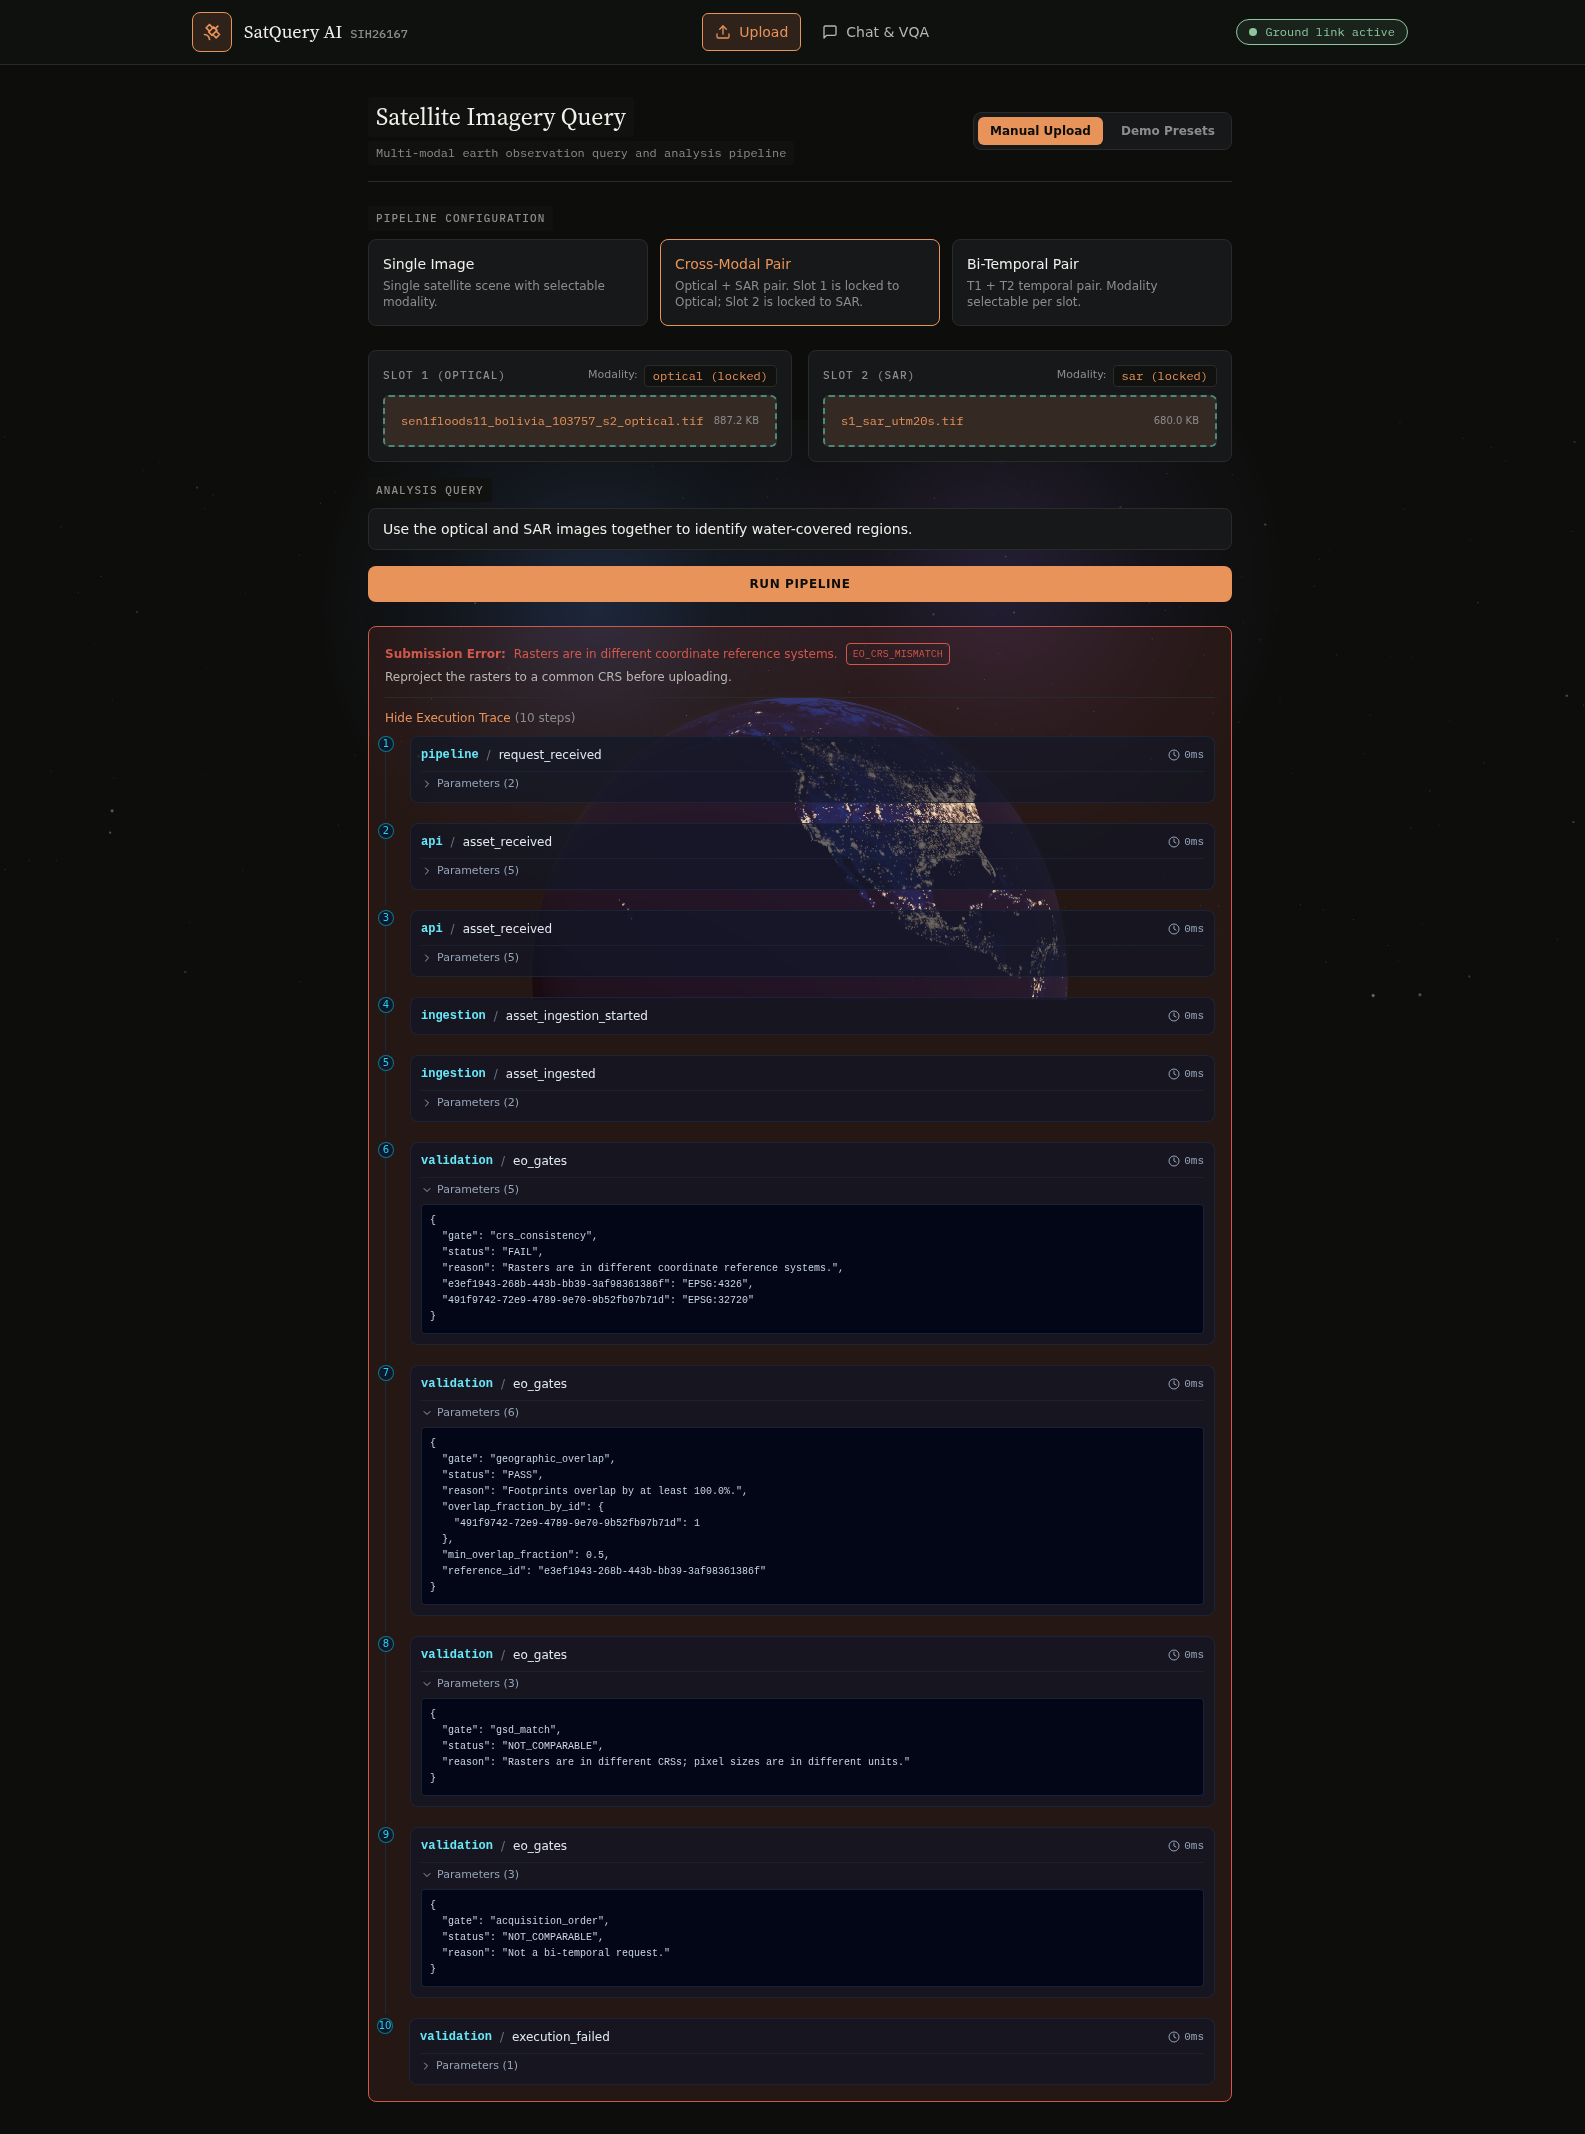
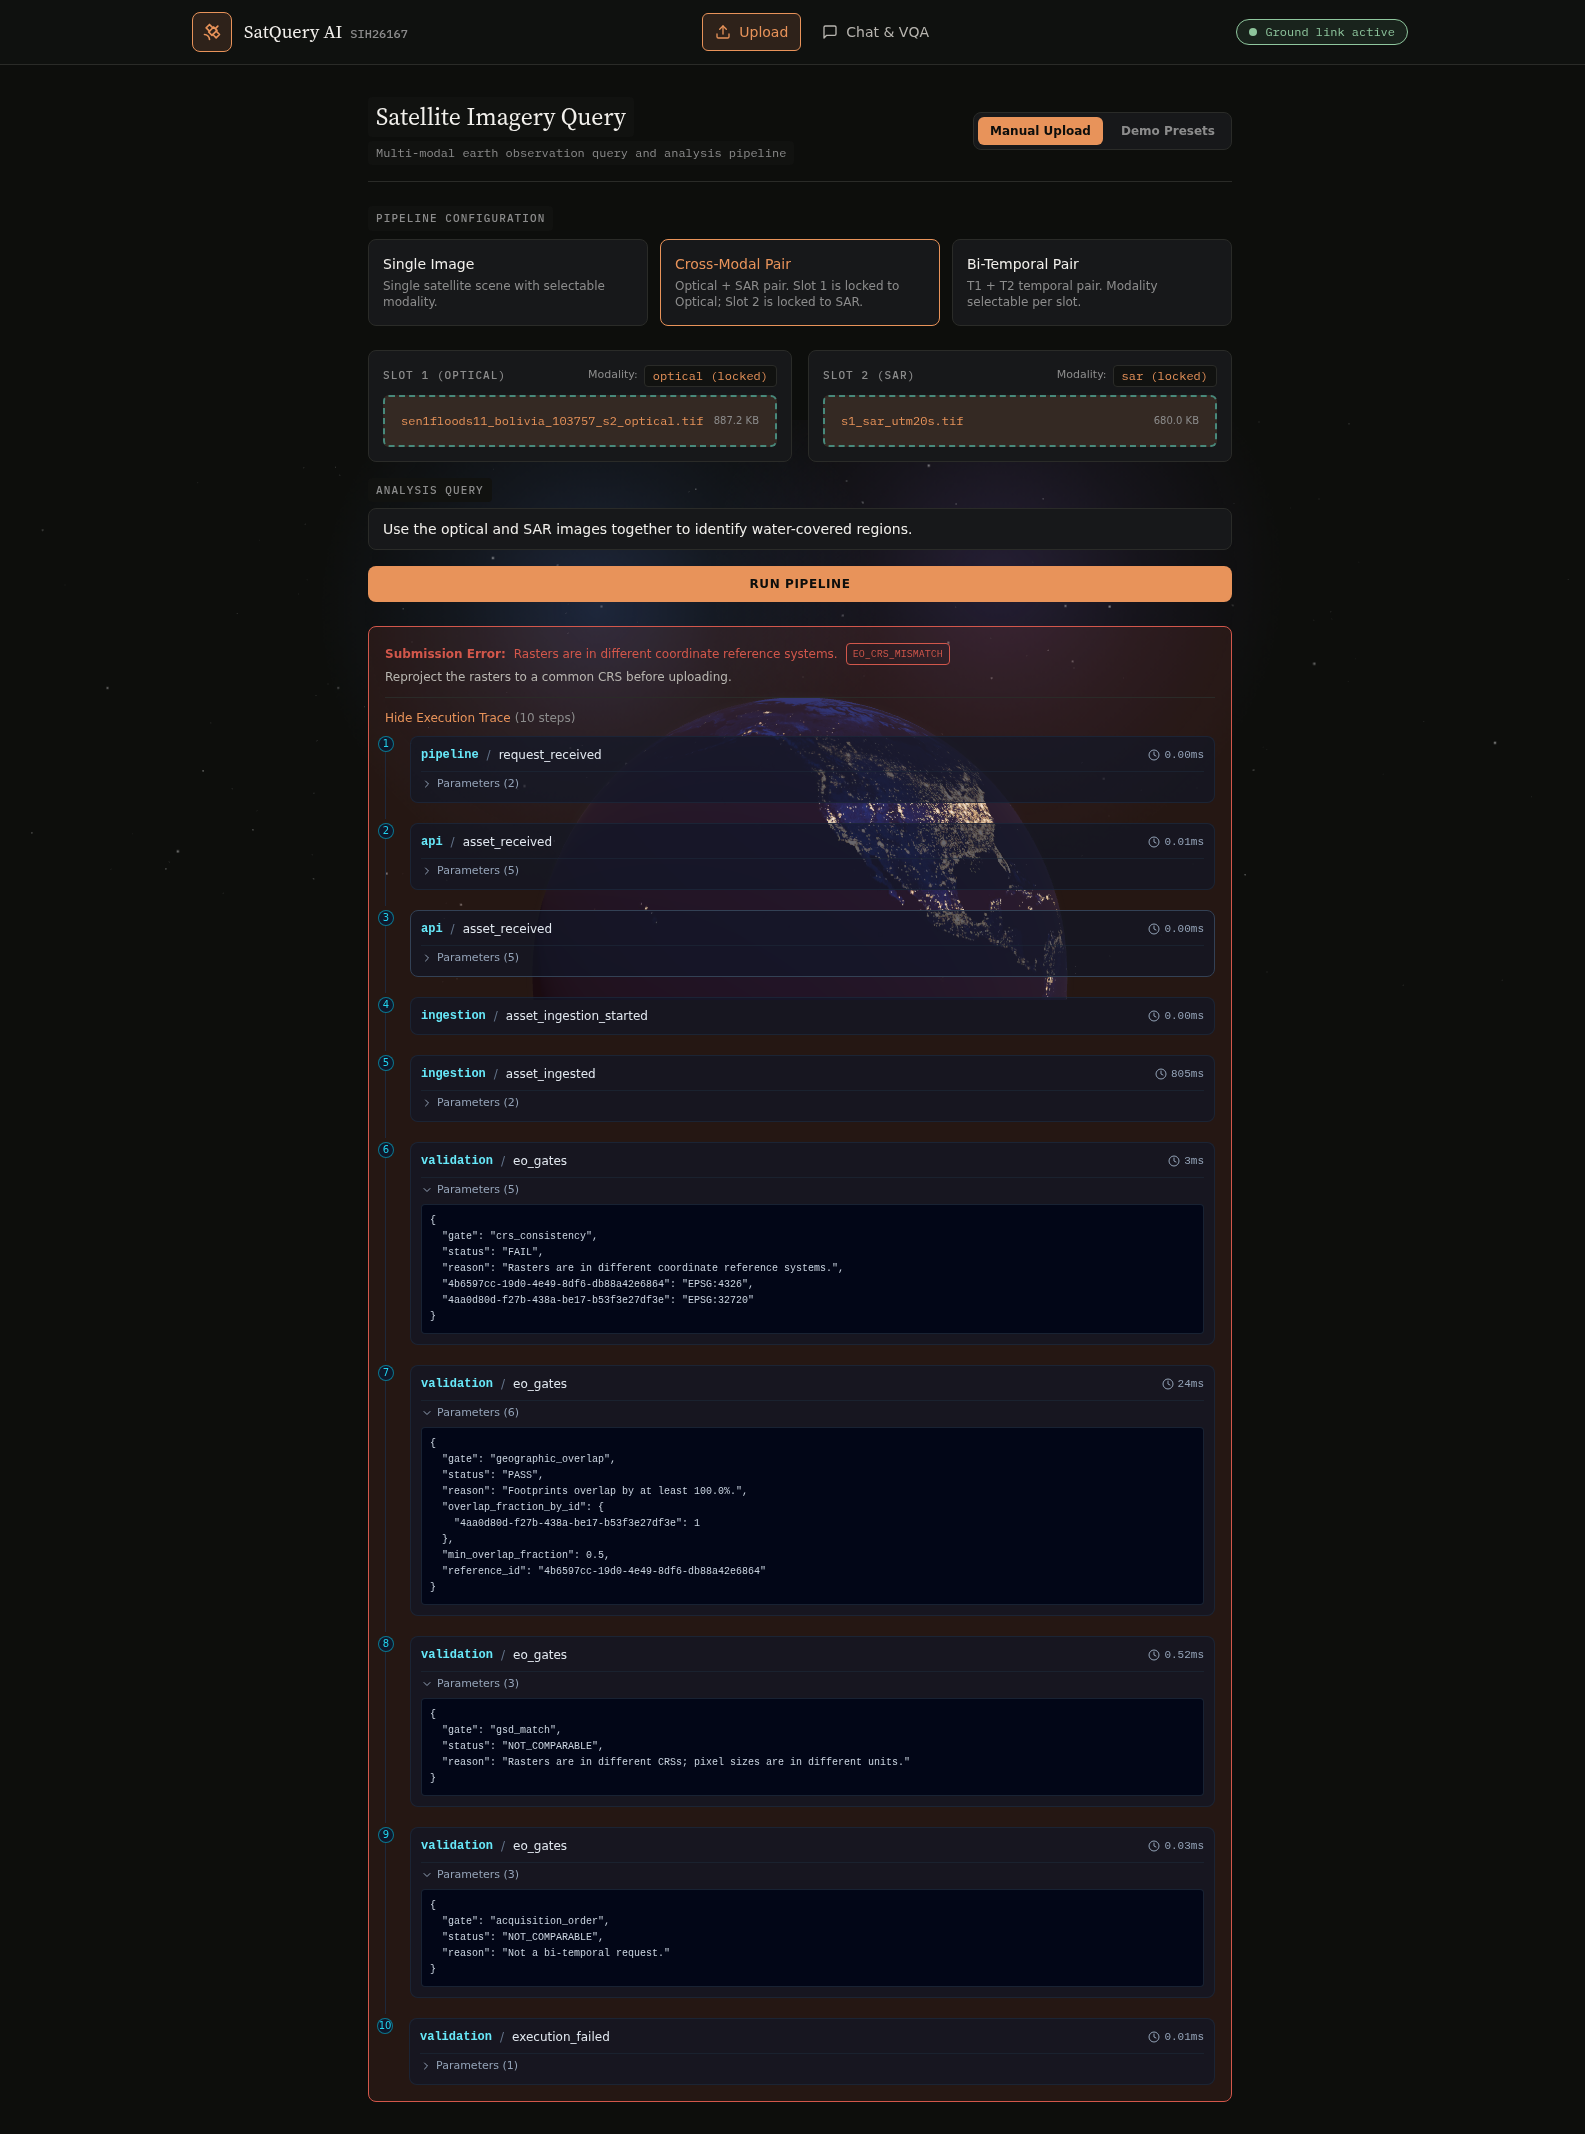
docs(26167): recapture veto + hero with real step timing and labels
Re-ran A (veto) and D (hero) on 4eeb122. The veto trace now shows real
per-stage durations (ingestion 805 ms, EO gates 3 / 24 / 0.52 / 0.03 ms) and
the hero's fusion cards show the new region labels. run_log.md records the
per-step durations from the API, marks B/C as pre-fix runs, and closes the
timing and label observations.

diff --git a/docs/evaluation/run_log.md b/docs/evaluation/run_log.md
@@ -7,12 +7,14 @@ logged in with a throwaway local account.
 
 - **Branch:** `feat/26167-demo-captures`, which is `feat/26167-console-v2-redesign` with
   `feat/26167-veto-trace-ui` merged in.
-- **Code under test:** `67c4a4a`, the port of the veto trace and raw-evidence truncation.
-  Screenshots and this log are committed on top of it.
-- **Date / time (UTC):** 2026-09-23, runs from 16:49:27 to 16:50:07 (times taken from the trace timestamps)
+- **Runs A and D:** code under test is `4eeb122` (real per-stage trace timing and specific mask
+  evidence labels). A ran at 2026-09-23 17:17:42 UTC and D at 17:14:27 UTC.
+- **Runs B and C:** not re-run for this commit. Their figures are from `67c4a4a` at
+  16:49–16:50 UTC, before step timing was fixed. Their totals are valid, but their per-step
+  durations were all recorded as 0 ms.
 - **CPU:** 13th Gen Intel(R) Core(TM) i5-13420H
 - **Compute:** CPU only. InternVL3-2B was never loaded; neither the fusion nor the
-  change-detection route calls it. BIT ran on CPU: `define_G` is called with `gpu_ids=[]`, and
+  change-detection route calls it. BIT runs on CPU: `define_G` is called with `gpu_ids=[]`, and
   the checkpoint is loaded with `map_location="cpu"`.
 
 ## Results
@@ -24,71 +26,83 @@ the 422).
 - **Round-trip ms** = measured in the browser from clicking Run to receiving the response. It
   is the only number here not taken from the response body.
 
-| Run | HTTP | reason_code | Final confidence | Pipeline ms (trace) | Round-trip ms (browser) | EO gates (crs / overlap / gsd / order) |
-|---|---|---|---|---|---|---|
-| A. Veto: S2 optical + S1 SAR reprojected to EPSG:32720 | 422 | `EO_CRS_MISMATCH` (stage `validation`) | none (request blocked) | 266 | 1143 | FAIL / PASS / NOT_COMPARABLE / NOT_COMPARABLE |
-| B. Healthy fusion: S2 optical + S1 SAR, both EPSG:4326 | 200 | none | 0.875 | 2364 | 4961 | PASS / PASS / PASS / NOT_COMPARABLE |
-| C. Bi-temporal change: LEVIR-CD train_103_9 before/after (PNG) | 200 | none | 0.9522647214737191 | 1999 | 2961 | NOT_COMPARABLE ×4 |
-| D. Hero: same inputs as B, trace left collapsed | 200 | none | 0.875 | 2235 | 4586 | PASS / PASS / PASS / NOT_COMPARABLE |
+| Run | Commit | HTTP | reason_code | Final confidence | Pipeline ms (trace) | Round-trip ms (browser) | EO gates (crs / overlap / gsd / order) |
+|---|---|---|---|---|---|---|---|
+| A. Veto: S2 optical + S1 SAR reprojected to EPSG:32720 | `4eeb122` | 422 | `EO_CRS_MISMATCH` (stage `validation`) | none (request blocked) | 836 | 1753 | FAIL / PASS / NOT_COMPARABLE / NOT_COMPARABLE |
+| B. Healthy fusion: S2 optical + S1 SAR, both EPSG:4326 | `67c4a4a` | 200 | none | 0.875 | 2364 | 4961 | PASS / PASS / PASS / NOT_COMPARABLE |
+| C. Bi-temporal change: LEVIR-CD train_103_9 before/after (PNG) | `67c4a4a` | 200 | none | 0.9522647214737191 | 1999 | 2961 | NOT_COMPARABLE ×4 |
+| D. Hero: same inputs as B, trace left collapsed | `4eeb122` | 200 | none | 0.875 | 8165 | 12684 | PASS / PASS / PASS / NOT_COMPARABLE |
 
-Evidence returned:
+Timings vary noticeably from run to run on this machine. For example, fusion inference took
+4.3 s in D, while the whole of B took 2.4 s. Read them as single samples, not benchmarks.
 
-- **B and D:** two `mask` items from `fusion.reconcile`, region `clear` at confidence 1.0 and
-  region `cloud_affected` at 0.75.
-- **C:** one `mask` item from `change_detection.bit` at confidence 0.9522647214737191.
+Evidence labels returned (`payload.label`, shown on the evidence cards):
 
-### Trace steps (module/action, in order)
+- **B and D (`fusion.reconcile`):**
+  - "Water extent — clear sky (optical + SAR agree)", confidence 1.0
+  - "Water extent — cloud-covered (SAR only, reduced confidence)", confidence 0.75
+- **C (`change_detection.bit`):** "Changed area (BIT change mask)" is set from `4eeb122` onward.
+  C was not re-run, so its screenshot still shows the old generic label.
 
-Every run starts with the same 9 steps:
+### Per-step durations (from each step's `started_at` → `completed_at`)
 
-1. `pipeline/request_received`
-2. `api/asset_received`
-3. `api/asset_received`
-4. `ingestion/asset_ingestion_started`
-5. `ingestion/asset_ingested`
-6. `validation/eo_gates` (crs_consistency)
-7. `validation/eo_gates` (geographic_overlap)
-8. `validation/eo_gates` (gsd_match)
-9. `validation/eo_gates` (acquisition_order)
+Steps named `*_started` are instant markers. Each completion step spans the work that
+produced it.
 
-**A. Veto (10 steps):** the 9 above, then 10. `validation/execution_failed`. No `router` step
+**A. Veto (`4eeb122`):**
+
+| # | Step | ms |
+|---|---|---|
+| 1 | `pipeline/request_received` | 0.004 |
+| 2 | `api/asset_received` | 0.008 |
+| 3 | `api/asset_received` | 0.002 |
+| 4 | `ingestion/asset_ingestion_started` | 0.001 |
+| 5 | `ingestion/asset_ingested` | 804.953 |
+| 6 | `validation/eo_gates` crs_consistency: FAIL | 3.068 |
+| 7 | `validation/eo_gates` geographic_overlap: PASS | 23.527 |
+| 8 | `validation/eo_gates` gsd_match: NOT_COMPARABLE | 0.524 |
+| 9 | `validation/eo_gates` acquisition_order: NOT_COMPARABLE | 0.034 |
+| 10 | `validation/execution_failed` | 0.011 |
+
+The request was blocked with message "Rasters are in different coordinate reference systems."
+and suggested action "Reproject the rasters to a common CRS before uploading." No `router` step
 ran.
 
-- Message: "Rasters are in different coordinate reference systems."
-- Suggested action: "Reproject the rasters to a common CRS before uploading."
-- Check results:
-  - crs_consistency: FAIL (EPSG:4326 vs EPSG:32720)
-  - geographic_overlap: PASS ("Footprints overlap by at least 100.0%.")
-  - gsd_match: NOT_COMPARABLE ("Rasters are in different CRSs; pixel sizes are in different units.")
-  - acquisition_order: NOT_COMPARABLE ("Not a bi-temporal request.")
+**D. Hero fusion (`4eeb122`):**
 
-**B and D. Fusion (17 steps):** the 9 above, then:
+| # | Step | ms |
+|---|---|---|
+| 1 | `pipeline/request_received` | 0.001 |
+| 2 | `api/asset_received` | 0.001 |
+| 3 | `api/asset_received` | 0.001 |
+| 4 | `ingestion/asset_ingestion_started` | 0.001 |
+| 5 | `ingestion/asset_ingested` | 134.933 |
+| 6 | `validation/eo_gates` crs_consistency: PASS | 0.353 |
+| 7 | `validation/eo_gates` geographic_overlap: PASS | 0.128 |
+| 8 | `validation/eo_gates` gsd_match: PASS | 3.563 |
+| 9 | `validation/eo_gates` acquisition_order: NOT_COMPARABLE | 0.028 |
+| 10 | `router/routing_started` | 0.016 |
+| 11 | `router/route_selected` | 9.646 |
+| 12 | `tools.fusion/fusion_started` | 0.034 |
+| 13 | `models.fusion.despeckle_otsu/fusion_inference_completed` | 4328.572 |
+| 14 | `verification/verification_started` | 0.061 |
+| 15 | `verification/verification_completed` | 5.840 |
+| 16 | `evidence/evidence_created` | 32.757 |
+| 17 | `pipeline/response_completed` | 0.003 |
 
-10. `router/routing_started`
-11. `router/route_selected`
-12. `tools.fusion/fusion_started`
-13. `models.fusion.despeckle_otsu/fusion_inference_completed`
-14. `verification/verification_started`
-15. `verification/verification_completed`
-16. `evidence/evidence_created`
-17. `pipeline/response_completed`
+**What the step durations do not cover.** The pipeline span includes some work that no step
+spans:
 
-Acquisition order is NOT_COMPARABLE with "Not a bi-temporal request."
+- Cloud-cover precompute: the optical-cloud pass that runs between the EO gates and routing.
+- Mask artifact writing (`_enrich_mask_evidence`).
+- Everything before step 1 or after the last step, such as persistence and history.
 
-**C. Bi-temporal change (17 steps):** the 9 above, then:
+That is why, in D, the step durations add up to less than the 8,165 ms pipeline span.
 
-10. `router/routing_started`
-11. `router/route_selected`
-12. `tools.change_detection/change_detection_started`
-13. `models.change_detection.bit/bit_inference_completed`
-14. `verification/verification_started`
-15. `verification/verification_completed`
-16. `evidence/evidence_created`
-17. `pipeline/response_completed`
-
-All four checks are NOT_COMPARABLE because the PNGs have no CRS. Acquisition order reads
-"Order declared by upload slot, not verified: no readable TIFFTAG_DATETIME on one or both
-rasters."
+**B and C (`67c4a4a`) step sequences:** the same as D after step 9, with C using
+`tools.change_detection/change_detection_started` and
+`models.change_detection.bit/bit_inference_completed`. In C, acquisition order reads "Order
+declared by upload slot, not verified: no readable TIFFTAG_DATETIME on one or both rasters."
 
 ## Inputs
 
@@ -107,28 +121,20 @@ still valid for this run and was reused without being regenerated.
 
 ## Screenshots (`docs/evaluation/screenshots/`)
 
-| File | Capture method |
-|---|---|
-| `veto_crs_mismatch.png` / `_panel.png` | Playwright full-page capture after scrolling to the top and waiting 4 s for the globe texture. The panel is the error alert, cropped with a 16 px margin, with the trace and the four `eo_gates` parameter blocks expanded. |
-| `fusion_healthy_trace.png` / `_panel.png` | Full-page capture; the panel is the result card with the trace expanded, cropped with a 16 px margin |
-| `change_bitemporal_trace.png` / `_panel.png` | Full-page capture; the panel is the result card with the trace expanded, cropped with a 16 px margin |
-| `hero_upload_fusion.png` / `_panel.png` | Full-page capture. The panel is a single 1600×1000 viewport frame with the result card scrolled into view and the trace collapsed. |
+| File | Commit | Capture method |
+|---|---|---|
+| `veto_crs_mismatch.png` / `_panel.png` | `4eeb122` | Playwright full-page capture after scrolling to the top and waiting 4 s for the globe texture. The panel is the error alert, cropped with a 16 px margin, with the trace and the four `eo_gates` parameter blocks expanded. It shows the real per-step durations. |
+| `fusion_healthy_trace.png` / `_panel.png` | `67c4a4a` | Full-page capture; the panel is the result card with the trace expanded. It predates the timing and label fixes. |
+| `change_bitemporal_trace.png` / `_panel.png` | `67c4a4a` | Full-page capture; the panel is the result card with the trace expanded. It predates the timing and label fixes. |
+| `hero_upload_fusion.png` / `_panel.png` | `4eeb122` | Full-page capture. The panel is a single 1600×1000 viewport frame with the result card scrolled into view and the trace collapsed. It shows the new fusion evidence labels. |
 
-All pages were short enough (1,136–2,621 px) for a single native full-page capture; no
-stitching was needed. The globe is a WebGL canvas and rendered under `--disable-gpu` through
-Chromium's software GL. The capture context does *not* set reduced motion: under
-`prefers-reduced-motion`, `RotatingEarthBackdrop` renders one frame before its texture has
-loaded, and the globe comes out dark.
+All pages were short enough for a single native full-page capture. The globe is a WebGL canvas
+and rendered under `--disable-gpu` through Chromium's software GL. The capture context does
+*not* set reduced motion: under `prefers-reduced-motion`, `RotatingEarthBackdrop` renders one
+frame before its texture has loaded, and the globe comes out dark.
 
 ## Observations (open)
 
-1. **Fusion and change evidence cards read "Spatial mask layer".** `EvidenceSummaryCard`
-   labels `mask` evidence with `payload.label`, which neither tool sets. The tools' readable
-   sentence (`note` for fusion, `description` for change detection) and their coverage figures
-   are not shown on the card, only in the answer text and the raw data.
-2. **Trace step durations all read 0 ms.** `TraceRecorder.record` stamps `started_at` and
-   `completed_at` at the same moment for each event, so the per-step clock in `TraceStepItem`
-   is not a real timing. The totals above come from the trace span instead.
-3. **The globe is hidden once a result is shown.** The planet sits centred behind the content
+1. **The globe is hidden once a result is shown.** The planet sits centred behind the content
    column, and the result card is opaque, so the hero frame shows the starfield and atmosphere
    glow but not the planet. The translucent veto alert in run A does show the planet.
